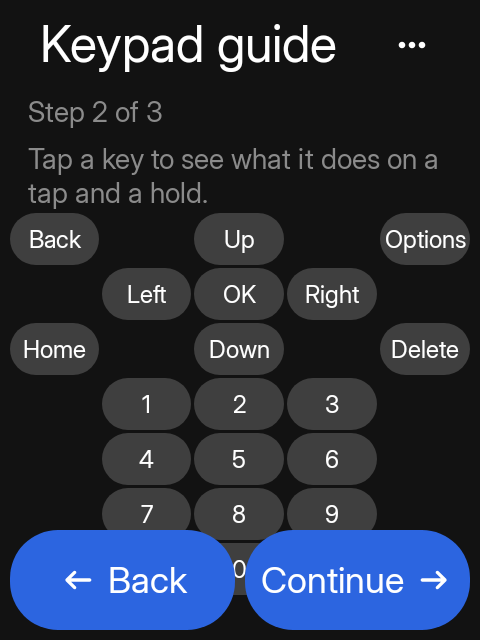
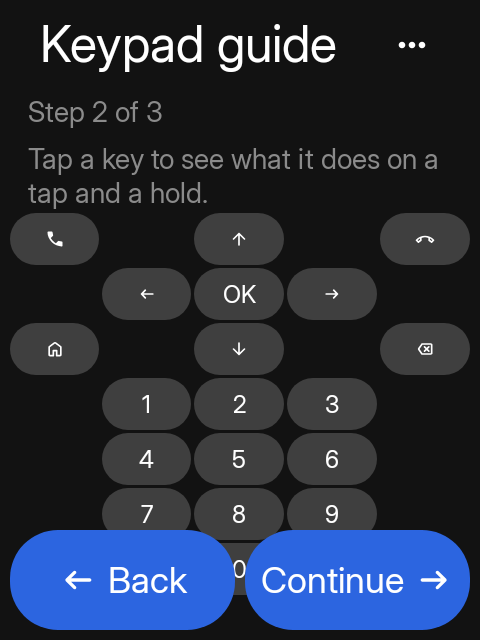
feat(welcome): draw the keypad guide like the hardware
The guide now shows the legend printed on each cap instead of the
translated name, keeping that name and its tap/hold actions in the detail
card.

- T9: the keys above the numpad are glyph-only; the centre key keeps its
  printed "OK".
- Game controller: the D-pad, Search and Home lose their words, and the
  face buttons print Y / X / B / A in the positions on the shell.
- Mini QWERTY: the top row folds to the five hardware keys (Call, Back,
  Home, Recents, End) with no words, and the bottom row folds to
  `↕`, `SYM`, `Space`, `aA`, Enter.

The onboarding guide test now taps the still-printed OK key, and the
guide screenshot is re-recorded.

diff --git a/app/src/main/java/io/github/manuelrtsch/sidetrack/SidetrackKeypadGuide.kt b/app/src/main/java/io/github/manuelrtsch/sidetrack/SidetrackKeypadGuide.kt
@@ -1,5 +1,6 @@
 package io.github.manuelrtsch.sidetrack
 
+import android.content.res.Resources
 import androidx.compose.foundation.layout.Arrangement
 import androidx.compose.foundation.layout.Column
 import androidx.compose.foundation.layout.Row
@@ -19,6 +20,7 @@ import androidx.compose.ui.platform.LocalContext
 import androidx.compose.ui.res.stringResource
 import androidx.compose.ui.unit.dp
 import hrln.interactive.sidekit.design.components.SidekitCard
+import hrln.interactive.sidekit.design.components.SidekitIconImage
 import hrln.interactive.sidekit.design.components.SidekitText
 import hrln.interactive.sidekit.design.components.SidekitTile
 import hrln.interactive.sidekit.design.input.KeypadModule
@@ -38,14 +40,21 @@ import hrln.interactive.sidekit.sdk.settings.keypadGuideRows
 @Composable
 internal fun SidetrackKeypadGuide(module: KeypadModule, modifier: Modifier = Modifier) {
     val resources = LocalContext.current.resources
-    val rows = remember(module, resources) { keypadGuideRows(module, resources) }
-    var selected by remember(module) { mutableStateOf<KeypadGuideKey?>(null) }
+    val rows = remember(module, resources) { guideRows(module, resources) }
+    var selected by remember(module) { mutableStateOf<GuideKey?>(null) }
     val spacing = SidekitTheme.spacing
     Column(modifier, verticalArrangement = Arrangement.spacedBy(spacing.pageGap)) {
-        selected?.let { key ->
+        selected?.let { guide ->
+            val key = guide.key
             SidekitCard(Modifier.fillMaxWidth()) {
                 Column(verticalArrangement = Arrangement.spacedBy(4.dp)) {
-                    SidekitText(key.label, style = SidekitTheme.typography.label, maxLines = 1)
+                    Row(
+                        horizontalArrangement = Arrangement.spacedBy(12.dp),
+                        verticalAlignment = Alignment.CenterVertically
+                    ) {
+                        key.icon?.let { SidekitIconImage(it, size = 28.dp) }
+                        SidekitText(key.label, style = SidekitTheme.typography.label, maxLines = 1)
+                    }
                     GuideAction(stringResource(SdkR.string.sk_sdk_guide_tap), key.tap)
                     GuideAction(
                         stringResource(SdkR.string.sk_sdk_guide_hold),
@@ -59,17 +68,35 @@ internal fun SidetrackKeypadGuide(module: KeypadModule, modifier: Modifier = Mod
             rows.forEach { row ->
                 val keyHeight = if (row.size > 3) 52.dp else 64.dp
                 Row(horizontalArrangement = Arrangement.spacedBy(spacing.itemOuterGap)) {
-                    row.forEach { key ->
-                        if (key == null) {
+                    row.forEach { guide ->
+                        if (guide == null) {
                             Spacer(Modifier.weight(1f).height(keyHeight))
                         } else {
+                            val key = guide.key
+                            // What is printed on the key: its glyph, or the legend on a blank cap.
+                            val icon = if (guide.printed == null && guide.showIcon) key.icon else null
+                            val legend = guide.printed ?: key.label.takeIf { guide.showLabel }
                             SidekitTile(
                                 Modifier.weight(1f).height(keyHeight),
-                                color = if (selected == key) SidekitTheme.colors.emphasisA1 else SidekitTheme.colors.surfaceA3,
-                                onClick = { selected = key },
+                                color = if (selected == guide) SidekitTheme.colors.emphasisA1 else SidekitTheme.colors.surfaceA3,
+                                onClick = { selected = guide },
                                 onClickLabel = stringResource(SdkR.string.sk_sdk_guide_show_key, key.label)
                             ) {
-                                SidekitText(key.label, style = SidekitTheme.typography.small, maxLines = 1)
+                                // The printed glyph above the key's name, as on the module itself.
+                                Column(
+                                    horizontalAlignment = Alignment.CenterHorizontally,
+                                    verticalArrangement = Arrangement.spacedBy(2.dp)
+                                ) {
+                                    icon?.let { SidekitIconImage(it, size = 20.dp) }
+                                    legend?.let {
+                                        SidekitText(
+                                            it,
+                                            style = if (icon == null) SidekitTheme.typography.small else SidekitTheme.typography.tiny,
+                                            // Two lines so a two-word name still fits a fifth of the width.
+                                            maxLines = if (icon == null) 1 else 2
+                                        )
+                                    }
+                                }
                             }
                         }
                     }
@@ -93,6 +120,90 @@ internal fun SidetrackKeypadGuide(module: KeypadModule, modifier: Modifier = Mod
             )
         }
     }
+}
+
+/**
+ * One cell of the diagram. [key] carries the translated name and the actions the detail card
+ * shows; [printed] replaces that name with the legend on the physical key, and [showLabel] and
+ * [showIcon] decide what the cap itself draws.
+ */
+private data class GuideKey(
+    val key: KeypadGuideKey,
+    val printed: String? = null,
+    val showLabel: Boolean = true,
+    val showIcon: Boolean = true
+)
+
+/**
+ * The rows as the module actually looks. Sidekit's rows carry every action, but their caps are
+ * plain labels; here the D-pad and chrome keys become their printed glyphs, the controller's face
+ * buttons keep the letters on the shell, and the mini QWERTY's five-key top and bottom rows are
+ * folded back into the shape of the hardware.
+ */
+private fun guideRows(module: KeypadModule, resources: Resources): List<List<GuideKey?>> {
+    val rows = keypadGuideRows(module, resources)
+    return when (module) {
+        // Everything above the numpad is a glyph key. The centre key is the one cap that really
+        // prints a word, so it keeps its "OK".
+        KeypadModule.T9 -> rows.map { row ->
+            row.map { key -> key?.let { GuideKey(it, showLabel = it.icon == null) } }
+        }
+
+        // The D-pad, Search and Home are glyphs; the face buttons are printed Y / X / B / A.
+        // The positions mirror Sidekit's five-column controller: Y at (2,3), X at (3,2),
+        // B at (3,4) and A at (4,3). The other glyph keys keep only their icon.
+        KeypadModule.GamePad -> rows.mapIndexed { r, row ->
+            row.mapIndexed { c, key ->
+                key?.let {
+                    when (r to c) {
+                        0 to 1, 0 to 4, 1 to 0, 1 to 2, 2 to 1, 4 to 0 -> GuideKey(it, showLabel = false)
+                        2 to 3 -> GuideKey(it, printed = "Y", showIcon = false)
+                        3 to 2 -> GuideKey(it, printed = "X", showIcon = false)
+                        3 to 4 -> GuideKey(it, printed = "B", showIcon = false)
+                        4 to 3 -> GuideKey(it, printed = "A", showIcon = false)
+                        else -> GuideKey(it)
+                    }
+                }
+            }
+        }
+
+        KeypadModule.Qwerty -> qwertyRows(rows, resources)
+
+        else -> rows.map { row -> row.map { key -> key?.let { GuideKey(it) } } }
+    }
+}
+
+private fun qwertyRows(rows: List<List<KeypadGuideKey?>>, resources: Resources): List<List<GuideKey?>> {
+    val navigation = rows.firstOrNull().orEmpty()
+    val call = navigation.getOrNull(0)
+    val home = navigation.getOrNull(1)
+    val endCall = navigation.getOrNull(2)
+    // The two dash keys beside Home are plain Back and Recents. They print a dash, not a word.
+    val back = call?.let { KeypadGuideKey(it.label, it.tap) }
+    val recents = KeypadGuideKey(
+        resources.getString(R.string.keypad_guide_recents),
+        resources.getString(R.string.keypad_guide_show_recents)
+    )
+    val dash = "\u2013"
+    val top = listOf(
+        call?.let { GuideKey(it, showLabel = false) },
+        back?.let { GuideKey(it, printed = dash, showIcon = false) },
+        home?.let { GuideKey(it, showLabel = false) },
+        GuideKey(recents, printed = dash, showIcon = false),
+        endCall?.let { GuideKey(it, showLabel = false) }
+    )
+    val letters = rows.drop(1).dropLast(2).map { row -> row.map { key -> key?.let { GuideKey(it) } } }
+    // The rocker, SYM, Space, aA and Enter share the bottom row on the module.
+    val suggestRow = rows.getOrNull(rows.size - 2)
+    val enterRow = rows.lastOrNull()
+    val bottom = listOf(
+        suggestRow?.getOrNull(0),
+        suggestRow?.getOrNull(1),
+        enterRow?.getOrNull(0),
+        suggestRow?.getOrNull(2),
+        enterRow?.getOrNull(1)
+    ).map { key -> key?.let { GuideKey(it) } }
+    return listOf(top) + letters + listOf(bottom)
 }
 
 @Composable

diff --git a/app/src/test/java/io/github/manuelrtsch/sidetrack/SidetrackOnboardingTest.kt b/app/src/test/java/io/github/manuelrtsch/sidetrack/SidetrackOnboardingTest.kt
@@ -341,9 +341,9 @@ class SidetrackOnboardingTest {
         compose.onNodeWithText("Step 2 of 3").assertExists()
         compose.onNodeWithText("Tap a key to see what it does on a tap and a hold.").assertExists()
 
-        compose.onNode(hasScrollToIndexAction()).performScrollToNode(hasText("Up"))
-        compose.onNodeWithText("Up").performClick()
-        compose.onNodeWithText("Move focus up.").assertExists()
+        compose.onNode(hasScrollToIndexAction()).performScrollToNode(hasText("OK"))
+        compose.onNodeWithText("OK").performClick()
+        compose.onNodeWithText("Activate the focused control or confirm a suggestion.").assertExists()
     }
 
     @Test
